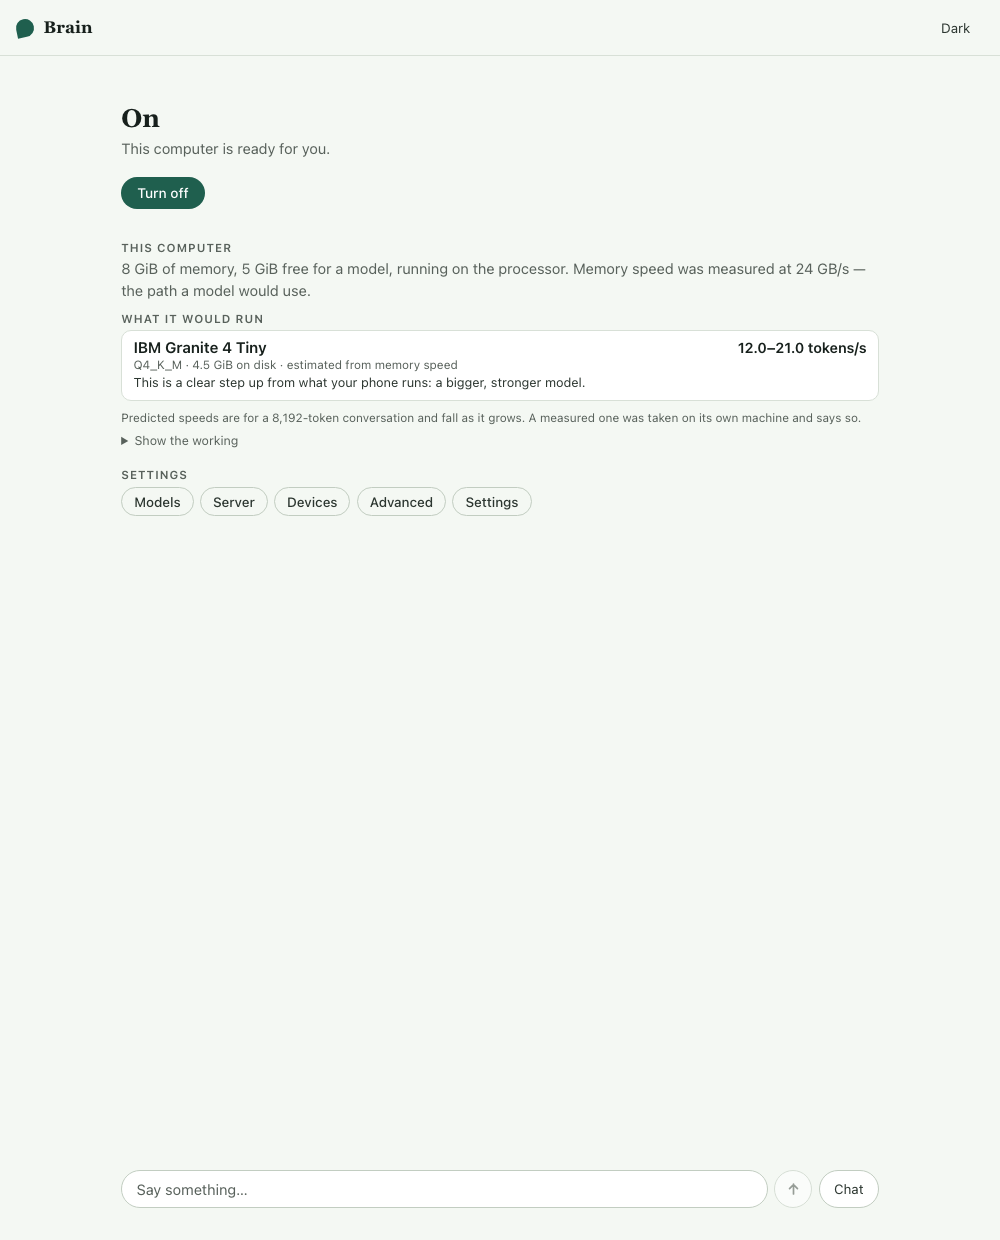
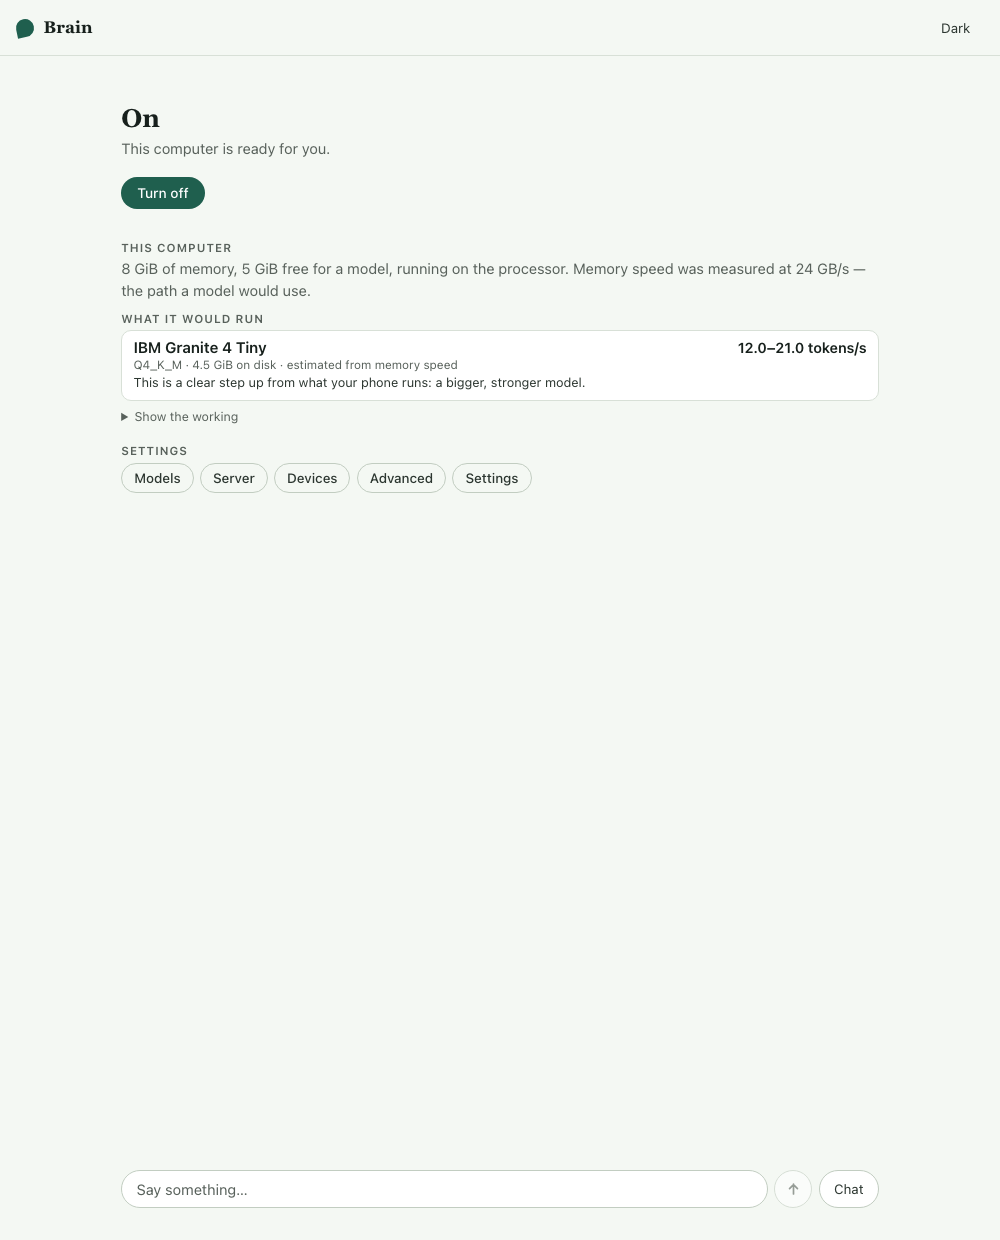
fix(brain): only the pick may call itself the largest that fits
The working under the two options was written for the winner and printed under
both. On this machine it said Arcee Trinity Nano, 3.5 GiB, "is the largest row
that fits this machine's 48.0 GiB budget" — directly under the line saying
Alibaba Qwen 3.6, 20.6 GiB, is. Both cannot be true and the second was the
false one: the alternative exists precisely because it is smaller. The same
sentence also managed to print a measured figure and then deny it was a
measurement, in one breath.

Three pieces now, each said in one place: the speed and where it came from, the
alternative's own line — name, weight, provenance, no claim to a rank it does
not hold — and the pick's line, which is the only one that says "no phone is
paired" and the only one that claims to be the largest that fits.

The footnote about what the speeds are priced at moves off the card and into
"Show the working", as its last line, rewritten. It was true and necessary and
nobody could read it where it was: a note about how the cache makes a figure
fall does not belong between a reader and a choice. Its pinned check moved with
it, and a new one keeps it from creeping back onto the card.

The test that proves it fails on the code as it stood, printing the alternative
claiming the pick's ground.

diff --git a/chat/src/surfaces/MachineCard.tsx b/chat/src/surfaces/MachineCard.tsx
@@ -184,19 +184,18 @@ export function MachineCard({ capability }: { capability: Capability }) {
         <>
           <Option model={model} />
           {second ? <Option model={second} /> : null}
-          {/* Said once, under both: the cache is re-read on every token, so
-              the speeds above hold at the length they were priced at and
-              fall from there. Repeating it per option would double a
-              sentence that is about the machine, not about either model. */}
-          <p className="surface-quiet">
-            Predicted speeds are for a {model.speed_context_tokens.toLocaleString()}-token
-            conversation and fall as it grows. A measured one was taken on its own machine and
-            says so.
-          </p>
           <details className="machine-working">
             <summary>Show the working</summary>
             <p className="machine-working-body">{model.details}</p>
             {second ? <p className="machine-working-body">{second.details}</p> : null}
+            {/* Once, under both, and in the drawer rather than on the card:
+                the cache is re-read on every token, so the speeds hold at the
+                length they were priced at and fall from there. On the card it
+                was dev material in the middle of a choice. */}
+            <p className="machine-working-body">
+              These speeds are for a conversation of about{" "}
+              {model.speed_context_tokens.toLocaleString()} tokens, and they drop as it grows.
+            </p>
           </details>
         </>
       ) : (

diff --git a/src-tauri/src/capability.rs b/src-tauri/src/capability.rs
@@ -258,7 +258,7 @@ pub(crate) fn dto(
                 speed_context_tokens: context,
                 speed: speed(&shown),
                 reason: QUICKER_REASON.to_string(),
-                details: phone_free_details(&row, &shown),
+                details: alternative_details(&row, &shown),
             }
         });
     CapabilityDto::Measured {
@@ -338,31 +338,55 @@ fn chosen_row(selection: &Selection) -> Option<&'static ModelEntry> {
     })
 }
 
-/// The full working for the phone-free pick: what was compared, what was
-/// not, and what the speed figure is. Numbers belong here — that is what
-/// this field is for — but nothing may pretend a comparison happened.
-fn phone_free_details(row: &RunnableRow, decode: &Prediction) -> String {
-    let speed = match *decode {
-        Prediction::Range { low, high } => format!("{low:.1}-{high:.1} tok/s"),
-        // The rate was measured on a slower path than the model will run
-        // on: a floor. Decode never carries `Estimate`; it would read the
-        // same way if it did.
+/// A row's speed, in the owner's words: the figure, where it comes from, and
+/// whether it was timed somewhere else. Written to be true of any row — the
+/// contradiction it replaces was "62.7 tok/s, measured on an M1 Max … The speed
+/// is a prediction, not a measurement on this machine", which said both things
+/// in one breath.
+fn speed_words(decode: &Prediction) -> String {
+    match *decode {
+        Prediction::Range { low, high } => format!(
+            "Predicted {low:.1}–{high:.1} tok/s, worked out from this computer's memory speed."
+        ),
+        // The rate was measured on a slower path than the model will run on:
+        // a floor, never printed as the rate the model will reach.
         Prediction::Floor(_) | Prediction::Estimate(_) => {
-            "a floor, to be measured on the path the model will run on".to_string()
+            "A floor: timed on a slower path than the model will run on.".to_string()
         }
+        // The full provenance is kept — this is the drawer, and which backend
+        // and cache produced the figure is what makes it worth quoting.
         Prediction::Measured {
             tokens_per_second,
             machine,
-        } => format!("{tokens_per_second:.1} tok/s, measured on {machine}"),
-    };
+        } => format!("{tokens_per_second:.1} tok/s, timed on {machine} — not on this machine."),
+    }
+}
+
+/// What one row is, for the drawer: its name, its weight, and where its speed
+/// figure comes from. No claim about being the largest — that belongs to the
+/// pick alone, and this is what the *second* option says, which exists because
+/// it is smaller.
+fn alternative_details(row: &RunnableRow, decode: &Prediction) -> String {
     format!(
-        "No phone is paired, so nothing here is compared to one. {} ({:.1} GiB of weights) \
-         is the largest row that fits this machine's {:.1} GiB budget, and its predicted \
-         decode speed is {}. The speed is a prediction, not a measurement on this machine.",
+        "{} — {:.1} GiB of weights. {}",
+        row.entry.display_name,
+        row.entry.weights_bytes as f64 / GIB as f64,
+        speed_words(decode)
+    )
+}
+
+/// The full working for the phone-free pick: what was compared, what was not,
+/// and where its speed figure comes from. Two things are said here and nowhere
+/// else — the machine's own "no phone" sentence, and the claim to be the largest
+/// that fits, which is true of this row only and was being said of both.
+fn phone_free_details(row: &RunnableRow, decode: &Prediction) -> String {
+    format!(
+        "No phone is paired, so nothing here is compared to one. {} — {:.1} GiB of weights, \
+         the largest that fits this machine's {:.1} GiB budget. {}",
         row.entry.display_name,
         row.entry.weights_bytes as f64 / GIB as f64,
         row.budget.usable_bytes as f64 / GIB as f64,
-        speed
+        speed_words(decode)
     )
 }
 
@@ -612,6 +636,49 @@ mod tests {
                         );
                     }
                 }
+            }
+        }
+    }
+
+    #[test]
+    fn only_the_pick_claims_to_be_the_largest_and_no_speed_contradicts_itself() {
+        // Two defects in one string, both read off the screen on 2026-09-19: the
+        // working is written for the pick and was applied to both rows, so the
+        // second option — smaller, faster, and not the largest by definition —
+        // claimed the pick's ground; and a figure that was measured was called a
+        // prediction in the same breath ("62.7 tok/s, measured on an M1 Max …
+        // The speed is a prediction, not a measurement on this machine").
+        let CapabilityDto::Measured { model, quicker, .. } =
+            dto(&measured(Backend::Cpu), 32 * GIB, None)
+        else {
+            panic!("a measured machine answers Measured");
+        };
+        let pick = model.expect("a 32 GiB machine runs something");
+        let second = quicker.expect("a 32 GiB machine has something faster");
+
+        assert!(
+            pick.details.contains("largest"),
+            "the pick claims its own ground: {}",
+            pick.details
+        );
+        assert!(
+            !second.details.contains("largest"),
+            "the alternative claims the pick's ground: {}",
+            second.details
+        );
+        assert!(
+            !second.details.contains("No phone is paired"),
+            "the machine's sentence is said once, not per row: {}",
+            second.details
+        );
+        for option in [&pick, &second] {
+            if matches!(&option.speed, SpeedDto::Measured { .. }) {
+                assert!(
+                    !option.details.contains("prediction"),
+                    "{} was timed and is called a prediction: {}",
+                    option.name,
+                    option.details
+                );
             }
         }
     }
